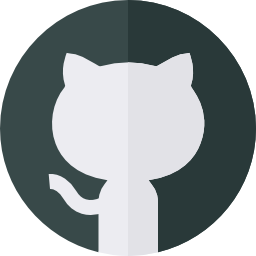
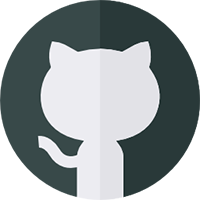
fixed navbar color and image sizing

diff --git a/index.html b/index.html
@@ -19,9 +19,9 @@
 <body id="page-top">
 
   <!-- Navigation -->
-<nav class="navbar navbar-expand-lg py-lg-4 align-items-center">
-      <img src="namelogoblack.png"  width="153.2" height="26.6" class="d-inline-block">
-      <button class="navbar-toggler" type="button" data-toggle="collapse" data-target="#navbarText" aria-controls="navbarText" aria-expanded="false" aria-label="Toggle navigation">
+<nav class="navbar navbar-light navbar-expand-lg py-lg-4 align-items-center" style="position:relative; background-color: #FFFFFF;">
+      <img src="namelogoblack.png" class="d-inline-block">
+      <button class="navbar-toggler" type="button-secondary" data-toggle="collapse" data-target="#navbarText" aria-controls="navbarText" aria-expanded="false" aria-label="Toggle navigation">
         <span class="navbar-toggler-icon"></span>
       </button>
       <div class="collapse navbar-collapse" id="navbarText">
@@ -43,14 +43,14 @@
   <div class="container-fluid text-white text-center" style="height: 700px; background-color: #ea6148;">
       <div class="pt-xl-5">
         <div class="pt-xl-5">
-          <img src="namelogowhite.png" class="img-responsive center-block" width="410.4" height="71.4">
+          <img src="namelogowhite.png" class="img-responsive center-block" >
           <div class="container pt-xl-5">
             <div class="row align-items-end pt-xl-5">
               <div class="col-sm text-body">
                 <div class="card" style="width: 18rem;">
                   <a class="text-body" style="text-decoration:none;" href="#about">
                   <div class="card-body">
-                    <img class="img-responsive center-block" width="100" height="100" src="newspaper.png">
+                    <img class="img-responsive center-block" src="newspaper.png">
                     <h5 class="card-title">About Me</h5>
                     <p class="card-text">Take a look at who I am and what I love to do. See if I would make a good fit at your company.</p>
                   </div>
@@ -61,7 +61,7 @@
                 <div class="card" style="width: 18rem;">
                 	<a class="text-body" style="text-decoration:none;" href="#projects">
 	                  	<div class="card-body">
-	                    <img class="img-responsive center-block" width="100" height="100" src="coding.png">
+	                    <img class="img-responsive center-block" src="coding.png">
 	                    <h5 class="card-title">Projects</h5>
 	                    <p class="card-text">Check out a few of the many projects I have been working on, including this website.</p>
                   </div>
@@ -72,7 +72,7 @@
                 <div class="card" style="width: 18rem;">
 	            	<a class="text-body" style="text-decoration:none;" href="#contact">
 	                  	<div class="card-body">
-	                    <img class="img-responsive center-block" width="100" height="100" src="email.png"> 
+	                    <img class="img-responsive center-block" src="email small.png"> 
 	                    <h5 class="card-title">Contact Me</h5>
 	                    <p class="card-text">Like what you see and want to reach out? Click here and send me an email!</p>
 	                  	</div>
@@ -110,7 +110,7 @@
           <div class="col-sm text-body">
             <div class="card" style="width: 18rem;">
               <div class="card-body">
-                <img class="img-responsive center-block" width="200" height="200" src="coffee.png">
+                <img class="img-responsive center-block" src="coffee.png">
                 <h5 class="card-title">Titan's Cafe</h5>
                 <p class="card-text">An online ordering system made by my brother, a friend, and me for Central Bucks High School South's cafe</p>
               </div>
@@ -122,7 +122,7 @@
               <div class="col-sm text-body">
                 <div class="card" style="width: 18rem;">
                   <div class="card-body">
-                    <img class="img-responsive center-block" width="200" height="200" src="emojiu.png">
+                    <img class="img-responsive center-block" src="emojiu.png">
                     <h5 class="card-title">EmojiU</h5>
                     <p class="card-text">An app I am currently working on to enable a custom keyboard for sending and sharing collegiate-focused emojis.</p>
                   </div>
@@ -134,7 +134,7 @@
               <div class="col-sm text-body">
                 <div class="card" style="width: 18rem;">
                       <div class="card-body">
-                        <img class="img-responsive center-block" width="200" height="200" src="github2.png">
+                        <img class="img-responsive center-block" src="github2.png">
                         <h5 class="card-title">This Website</h5>
                         <p class="card-text">Check out the source code for this website coded in HTML, CSS, and Javascript utilizing bootstrap and formspree.</p>
                       </div>
@@ -150,7 +150,7 @@
   <section id="contact">
     <div class="container contact-form">
       <div class="contact-image">
-          <img src="email.png" width="175" height="175"/>
+          <img src="email med.png" />
       </div>
           <h3>Let's Get in Touch</h3>
          <div class="row">
@@ -183,9 +183,9 @@
   <!-- Footer -->
   <footer class="py-1 bg-dark">\
   	<div class="container text-center pb-sm-4">
-  		<a href="https://www.linkedin.com/in/tyler-olin-011731179"><img class="img-responsive center-block" width="50" height="50" src="linkedin.png"></a>
-  		<a href="https://github.com/olintyler"><img class="img-responsive center-block" width="50" height="50" src="github.png"></a>
-  		<a href="#contact"><img class="img-responsive center-block" width="70" height="70" src="mail.png"></a>
+  		<a href="https://www.linkedin.com/in/tyler-olin-011731179"><img class="img-responsive center-block" src="linkedin.png"></a>
+  		<a href="https://github.com/olintyler"><img class="img-responsive center-block" src="github.png"></a>
+  		<a href="#contact"><img class="img-responsive center-block" src="mail.png"></a>
   	</div>
     <div class="container">
       <p class="m-0 text-center text-white">Copyright &copy; Tyler Olin 2019</p>
